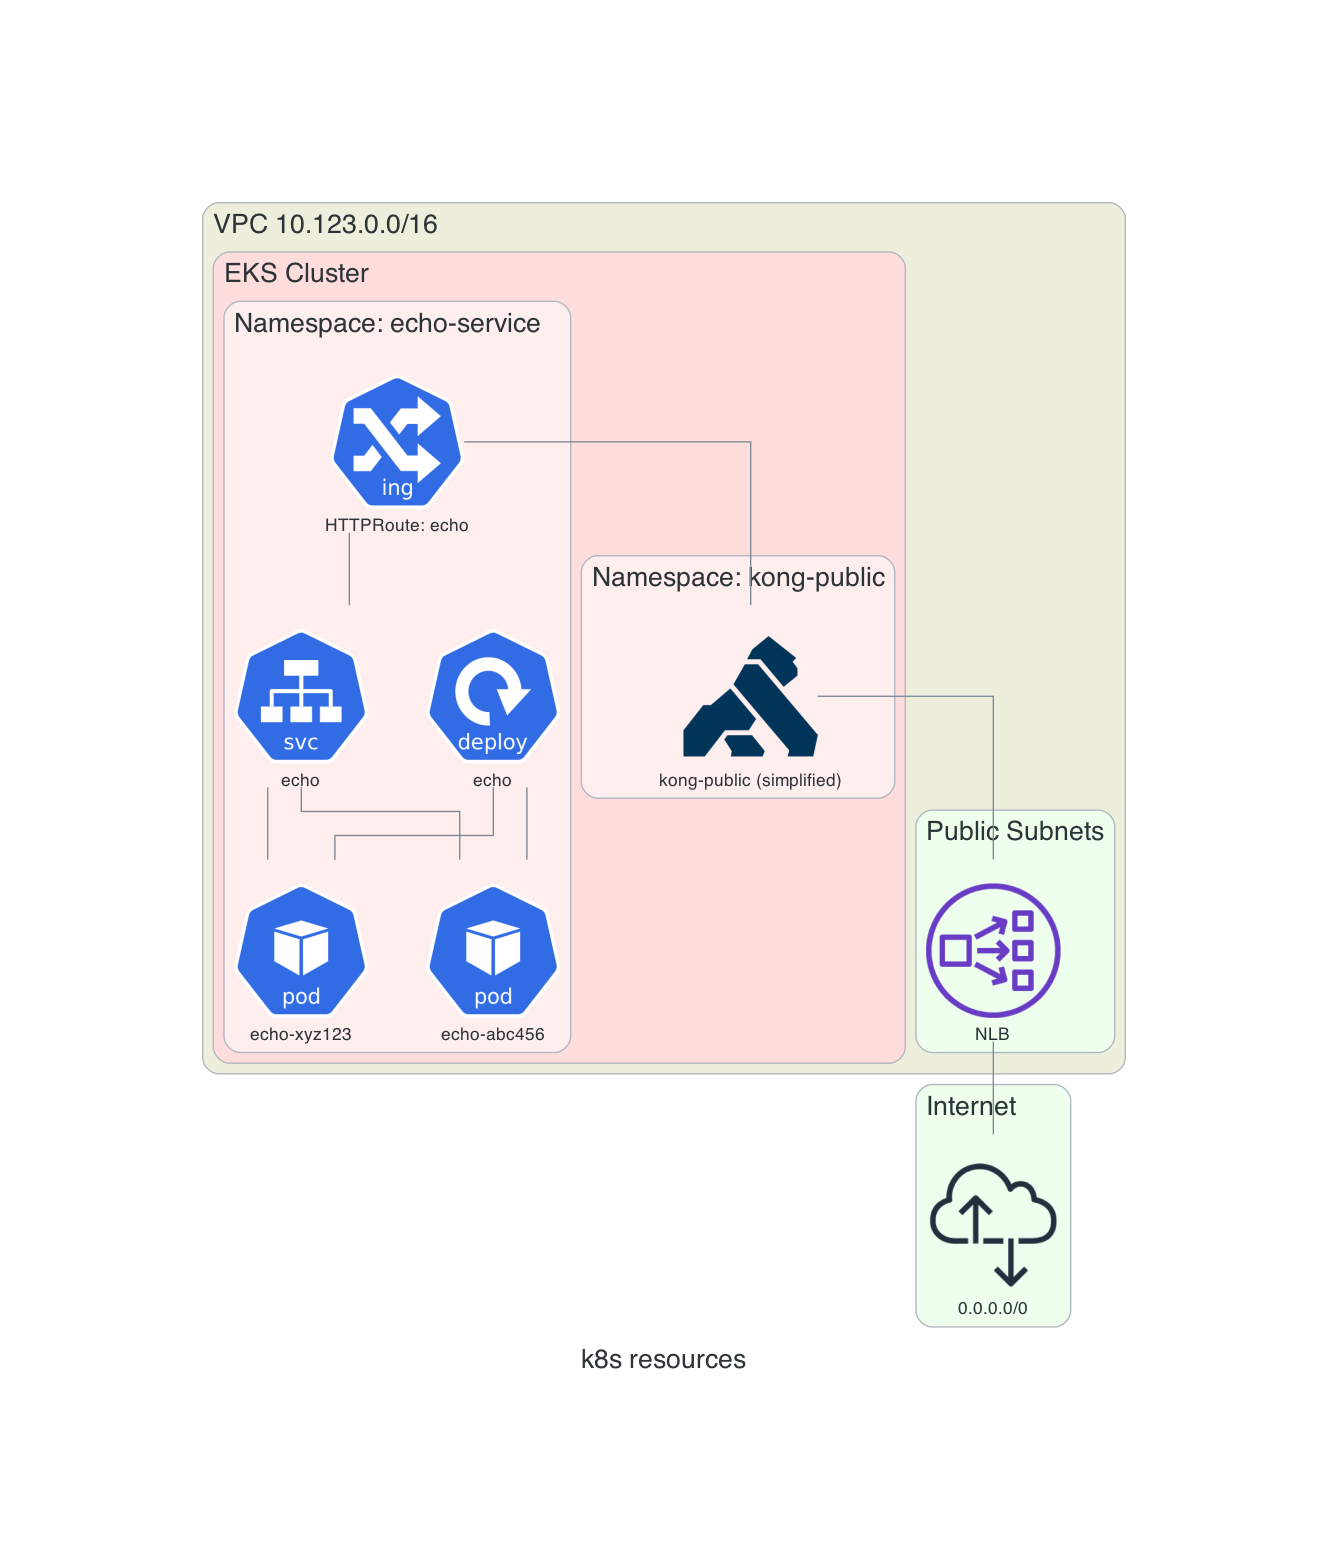
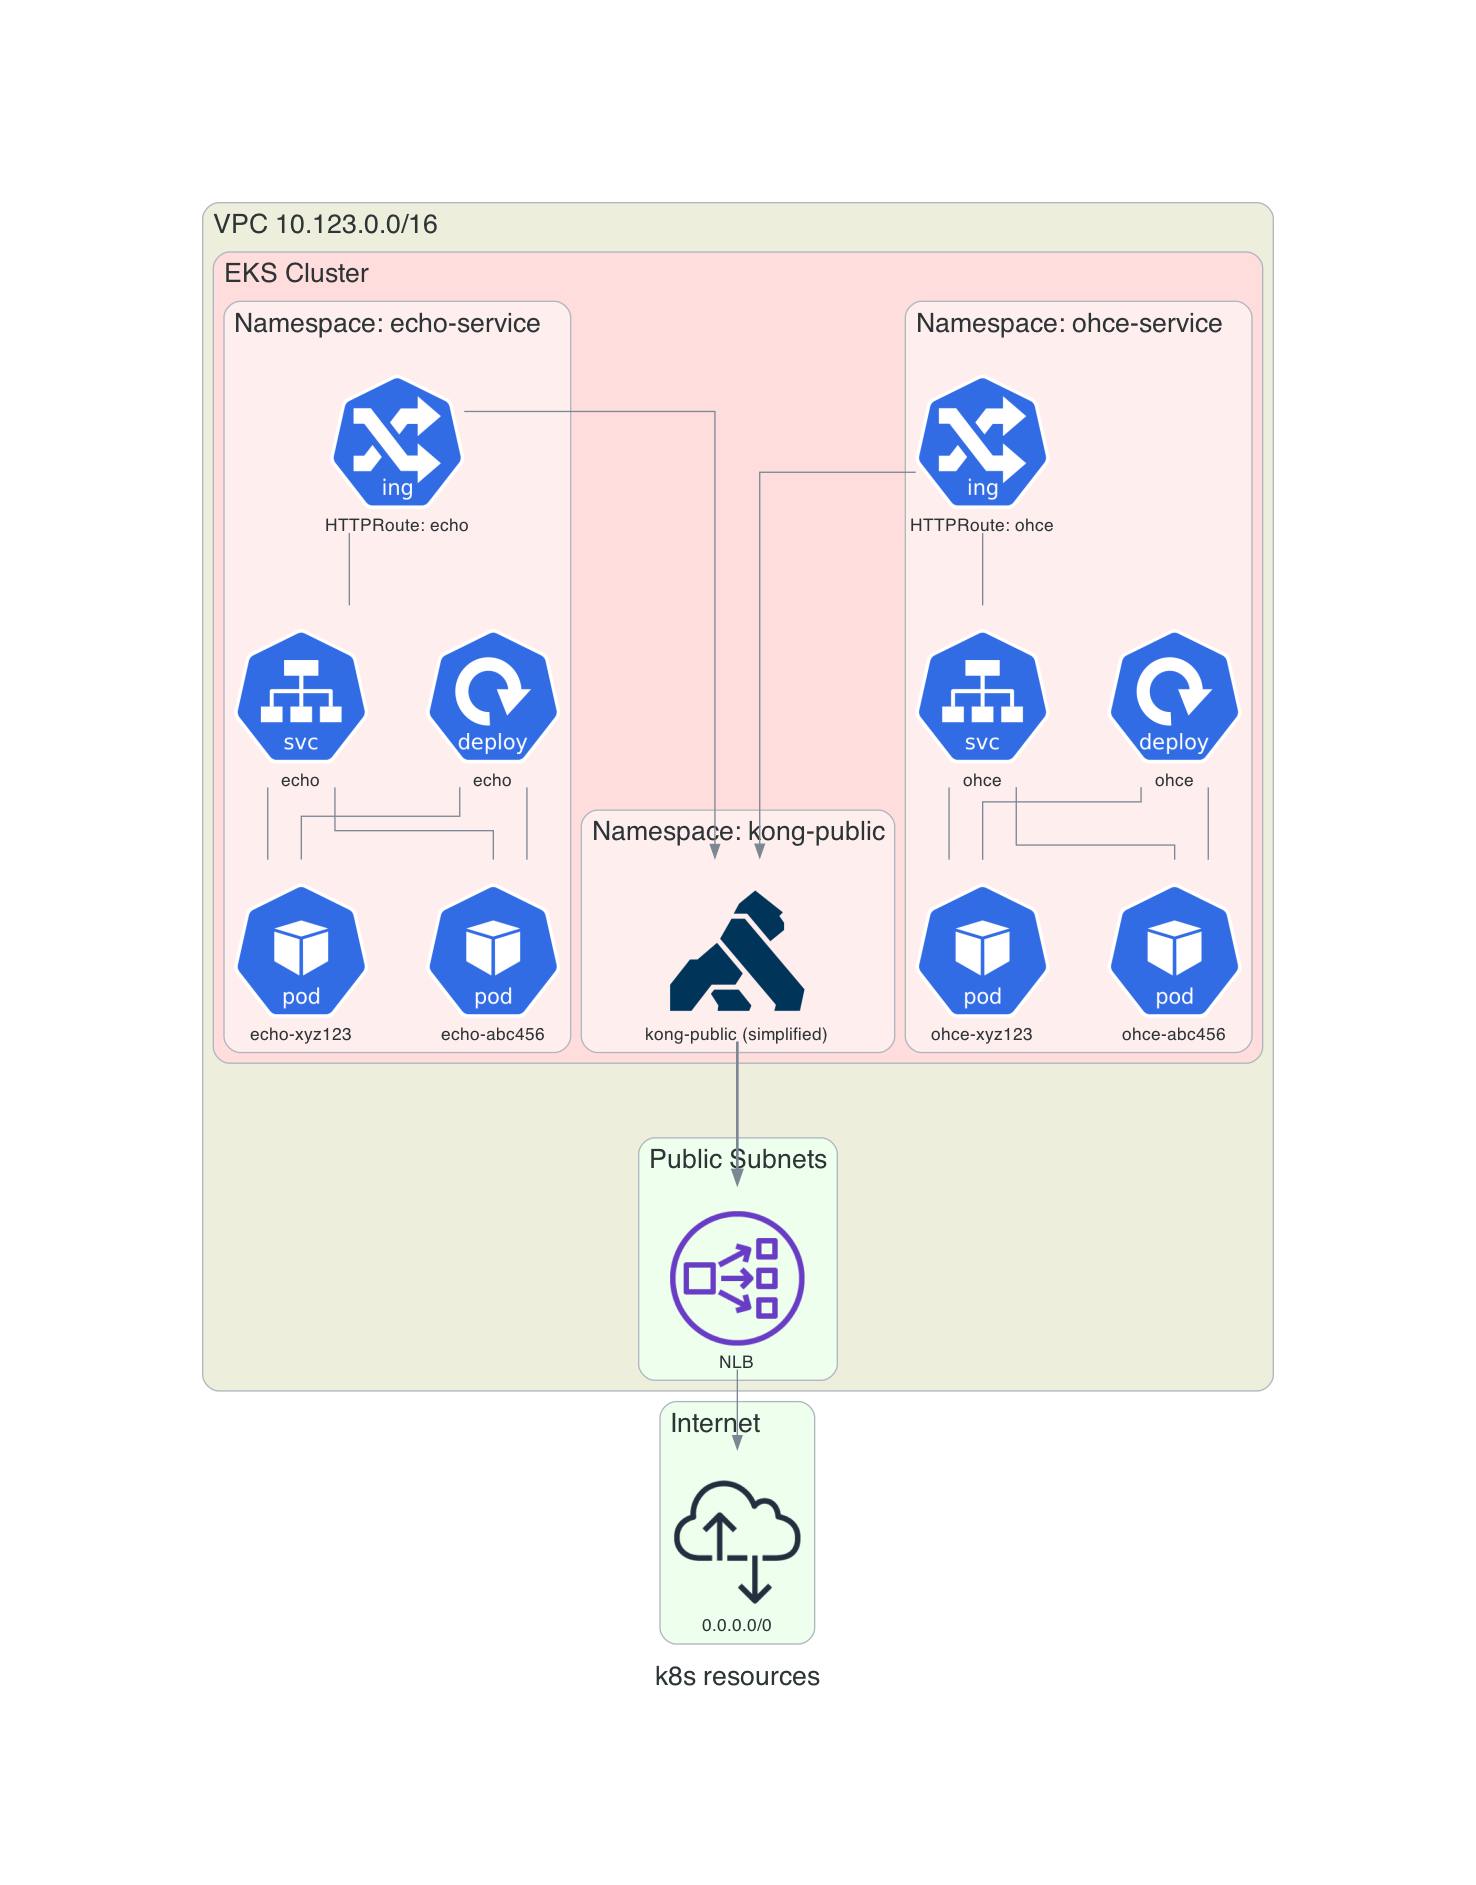
New diagram

Changed region(s): [[0.1235, 0.0938, 0.8645, 0.9062]]

diff --git a/images/diag2.py b/images/diag2.py
@@ -1,0 +1,115 @@
+# diagram.py
+from diagrams import Cluster, Diagram, Edge
+from diagrams.aws.compute import EC2, ECS, EKS, Lambda, EC2Instances
+from diagrams.aws.network import ELB, VPC, VPCRouter, NATGateway, InternetGateway, PrivateSubnet, PublicSubnet, ElbNetworkLoadBalancer
+from diagrams.aws.network import ELB
+from diagrams.aws.storage import S3
+from diagrams.aws.general import InternetAlt1
+from diagrams.aws.general import OfficeBuilding
+from diagrams.k8s.infra import Master, Node
+from diagrams.k8s.compute import STS, Deploy, DS, Pod
+from diagrams.k8s.group import NS
+from diagrams.k8s.network import Ing, SVC
+from diagrams.k8s.storage import PVC, Vol
+from diagrams.k8s.podconfig import CM, Secret
+from diagrams.onprem.network import Kong, Nginx
+
+diag_attr = {
+    "fontsize": "20",
+}
+
+vpc_attr = {
+    "fontsize": "20",
+    "bgcolor": "#eed",
+    "fgcolor": "#000"
+}
+
+internet_attr = {
+    "fontsize": "20",
+    "bgcolor": "#fff"
+}
+
+public_attr = {
+    "fontsize": "20",
+    "bgcolor": "#bfb"
+}
+
+priv_attr = {
+    "fontsize": "20",
+    "bgcolor": "#fbb"
+}
+
+ns1_attr = {
+    "fontsize": "20",
+    "bgcolor": "#fee"
+}
+
+ns2_attr = {
+    "fontsize": "20",
+    "bgcolor": "#eef"
+}
+
+ns3_attr = {
+    "fontsize": "20",
+    "bgcolor": "#fef"
+}
+
+aws_attr = {
+    "fontsize": "20",
+    "bgcolor": "#ded"
+}
+
+common_attr = {
+    "fontsize": "20",
+    "bgcolor": "#ebb"
+}
+
+k8s_attr = {
+    "fontsize": "20",
+    "bgcolor": "#fdd",
+    "orientation": "landscape"
+}
+
+db_attr = {
+    "fontsize": "20",
+    "bgcolor": "#fff"
+}
+
+cluster_attr = {
+    "fontsize": "35"
+    # "orientation": "landscape"
+}
+
+with Diagram("EKS Ingress", graph_attr=diag_attr, filename="k8s_resources", show=False, direction="LR"):
+  with Cluster("VPC 10.123.0.0/16", graph_attr=vpc_attr):
+    with Cluster("Public Subnets", graph_attr=public_attr):
+      nlb_pub = ElbNetworkLoadBalancer("NLB")
+    with Cluster("Private Subnets", graph_attr=priv_attr):
+      with Cluster("EKS Cluster", graph_attr=k8s_attr):
+        with Cluster("Namespace: kong-public", graph_attr=ns1_attr): 
+          kong_public = Kong("kong-public (simplified)")
+        with Cluster("Namespace: echo-service", graph_attr=ns2_attr): 
+          with Cluster("Deployment"):
+            echo_pod1 = Pod("echo-xyz123")
+            echo_pod2 = Pod("echo-abc456")
+          echo_svc = SVC("echo")
+          echo_ing = Ing("HTTPRoute: echo")
+          echo_svc >> Edge(penwidth="2") >> [ echo_pod1, echo_pod2 ] 
+          echo_ing >> Edge(pendwidth="2") >> echo_svc 
+          echo_dep = Deploy("echo")
+          echo_dep - [ echo_pod1, echo_pod2 ] 
+          # common
+        with Cluster("Namespace: ohce-service", graph_attr=ns3_attr): 
+          with Cluster("Deployment"):
+            ohce_pod1 = Pod("ohce-xyz123")
+            ohce_pod2 = Pod("ohce-abc456")
+          ohce_svc = SVC("ohce")
+          ohce_ing = Ing("HTTPRoute: ohce")
+          ohce_svc >> Edge(pendwidth="2") >> [ ohce_pod1, ohce_pod2 ] 
+          ohce_ing >> Edge(pendwidth="2") >> ohce_svc 
+          ohce_dep = Deploy("ohce")
+          ohce_dep - [ ohce_pod1, ohce_pod2 ] 
+          # common
+  with Cluster("Internet", graph_attr=internet_attr):
+    internet=InternetAlt1("0.0.0.0/0")
+    [ echo_ing, ohce_ing ] >> Edge(minlen="2",pendwidth="2") >> kong_public >> Edge(minlen="2",penwidth="2") >> nlb_pub >> internet
